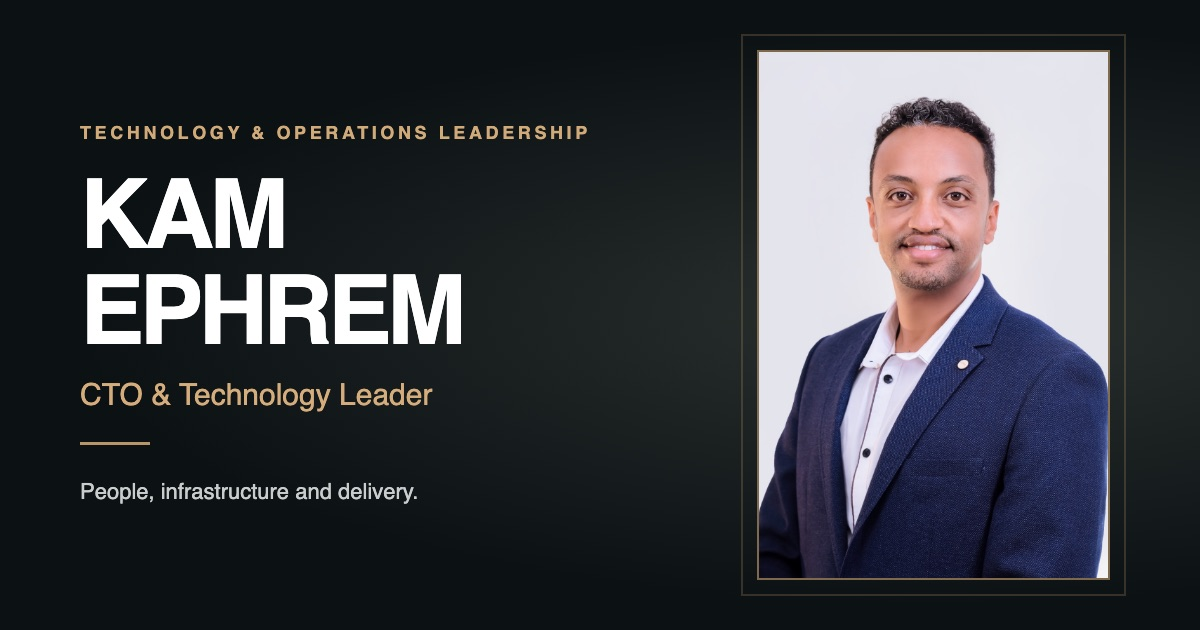
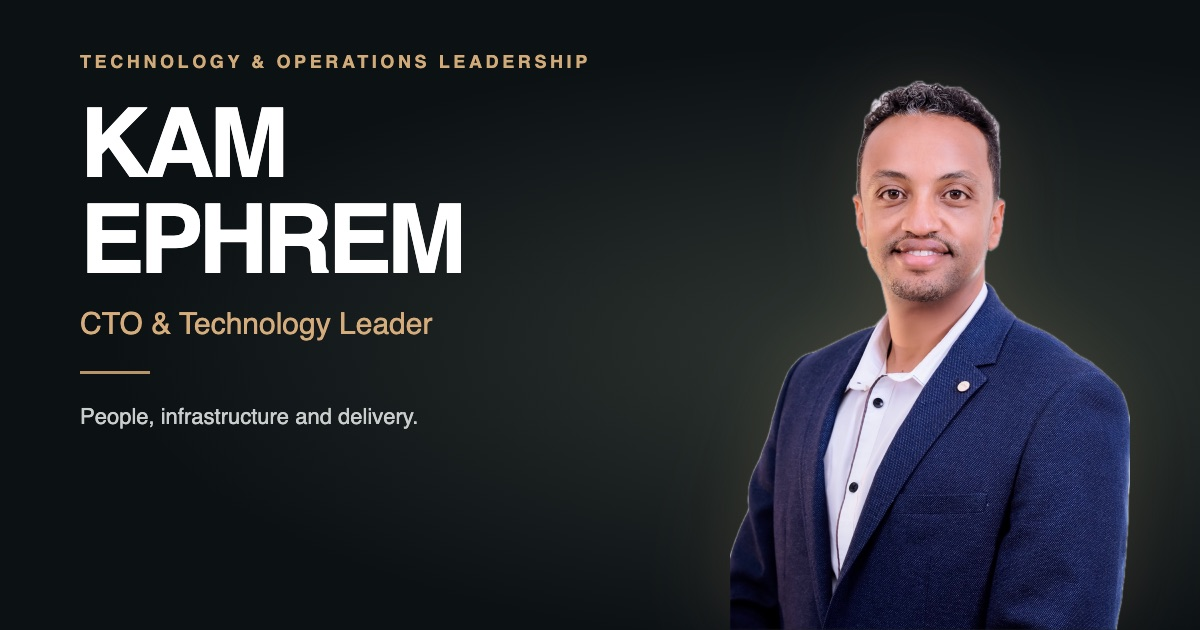
Cut out hero portrait, label credential link accurately, refresh social card

diff --git a/src/App.jsx b/src/App.jsx
@@ -12,12 +12,12 @@ export default function App() {
     <a className="skip" href="#main">Skip to content</a>
     <header className="header shell"><a className="brand" href="#top"><span className="monogram">KE</span><span>KAM EPHREM<small>TECHNOLOGY &amp; OPERATIONS</small></span></a><nav aria-label="Main navigation"><a href="#expertise">Expertise</a><a href="#work">Selected work</a><a href="#about">About</a><a href="#certification">Certification</a><a href="#contact">Contact</a></nav></header>
     <main id="main">
-      <section className="hero" id="top"><div className="shell hero-inner"><div className="hero-copy"><p className="eyebrow">TECHNOLOGY &amp; OPERATIONS LEADERSHIP</p><h1>KAM EPHREM</h1><p className="hero-role">CTO &amp; Technology Leader</p><span className="gold-rule" /><p className="hero-description">I connect people, infrastructure, and practical decisions to help move work forward. My experience spans technology leadership, cloud operations, and project delivery.</p><div className="hero-actions"><a className="button gold" href="#work">Explore my work</a><a className="button outline" href="https://www.linkedin.com/in/kamnoahephrem">Connect on LinkedIn</a></div></div><div className="hero-visual"><div className="visual-grid" aria-hidden="true" /><div className="visual-orbit orbit-one" aria-hidden="true" /><div className="visual-orbit orbit-two" aria-hidden="true" /><figure className="portrait"><img src="/kam-ephrem-1000.jpg" srcSet="/kam-ephrem-600.jpg 600w, /kam-ephrem-1000.jpg 1000w" sizes="(max-width: 850px) 70vw, 400px" width="1000" height="1500" alt="Portrait of Kam Ephrem, smiling, in glasses and a navy blazer" fetchPriority="high" /><figcaption>PEOPLE <span>/</span> SYSTEMS <span>/</span> DELIVERY</figcaption></figure></div></div></section>
+      <section className="hero" id="top"><div className="shell hero-inner"><div className="hero-copy"><p className="eyebrow">TECHNOLOGY &amp; OPERATIONS LEADERSHIP</p><h1>KAM EPHREM</h1><p className="hero-role">CTO &amp; Technology Leader</p><span className="gold-rule" /><p className="hero-description">I connect people, infrastructure, and practical decisions to help move work forward. My experience spans technology leadership, cloud operations, and project delivery.</p><div className="hero-actions"><a className="button gold" href="#work">Explore my work</a><a className="button outline" href="https://www.linkedin.com/in/kamnoahephrem">Connect on LinkedIn</a></div></div><div className="hero-visual"><div className="visual-grid" aria-hidden="true" /><div className="visual-orbit orbit-one" aria-hidden="true" /><div className="visual-orbit orbit-two" aria-hidden="true" /><figure className="portrait"><img src="/kam-ephrem-800.png" srcSet="/kam-ephrem-500.png 500w, /kam-ephrem-800.png 800w" sizes="(max-width: 850px) 80vw, 420px" width="800" height="1200" alt="Portrait of Kam Ephrem, smiling, in glasses and a navy blazer" fetchPriority="high" /></figure></div></div></section>
 
       <section className="expertise section" id="expertise"><div className="shell"><div className="section-title centered"><p className="eyebrow">HOW I WORK</p><h2>Areas of expertise</h2><span className="gold-rule" /></div><div className="expertise-grid">{expertise.map(item => <article key={item.title}><span className="expertise-icon" aria-hidden="true">{item.symbol}</span><h3>{item.title}</h3><p>{item.text}</p></article>)}</div></div></section>
 
       <section className="portfolio" id="work"><div className="shell portfolio-grid"><div className="selected"><div className="section-title"><p className="eyebrow">LEADERSHIP IN PRACTICE</p><h2>Selected work</h2><span className="gold-rule" /></div><div className="projects"><article><div className="project-art art-ella" aria-hidden="true"><span>ELLA<br />TECH</span><i /></div><p className="project-type">TECHNOLOGY LEADERSHIP</p><h3>Building delivery capability</h3><p>As CTO at Ella Tech, Kam works with the CEO on company setup and oversees delivery across web, mobile, and backend services. Azeb Baltina was delivered; Ella IT is in development.</p></article><article><div className="project-art art-cloud" aria-hidden="true"><span>30%<small>+</small></span><i>LOWER CLOUD COSTS</i></div><p className="project-type">CLOUD &amp; DEVOPS</p><h3>More efficient operations</h3><p>At L-ift BV, right-sizing, pricing changes, and automation reduced cloud costs by over 30%, deployment time by 35%, and increased release frequency by 20%.</p></article><article><div className="project-art art-code" aria-hidden="true"><span>API</span><i>DJANGO / MYSQL / JWT</i></div><p className="project-type">BACKEND ENGINEERING</p><h3>E-commerce product API</h3><p>The ALX capstone README describes product CRUD, user management, and cart features using Django, Django REST Framework, MySQL, and JWT.</p><a className="text-link" href="https://github.com/kamcode1/CapstoneProject">View repository</a></article></div></div><aside className="about" id="about"><div className="section-title"><p className="eyebrow">A CROSS-DISCIPLINARY PERSPECTIVE</p><h2>About me</h2><span className="gold-rule" /></div><p>I'm Kam Ephrem, a technology and operations leader based in Addis Ababa. My work brings together software delivery, cloud infrastructure, people, and cost control.</p><div className="about-facts"><div><span aria-hidden="true">◈</span><p><strong>Current focus</strong>CTO at Ella Tech and DevOps at L-ift BV</p></div><div><span aria-hidden="true">▤</span><p><strong>Background</strong>Technology, civil engineering, and general management</p></div><div><span aria-hidden="true">◇</span><p><strong>Education</strong>MSc in Computer Science, HiLCoE; BSc in Civil Engineering, Addis Ababa University</p></div><div><span aria-hidden="true">✳</span><p><strong>Credentials</strong>FMVA (Corporate Finance Institute, 2022) and AWS Solutions Architect – Associate, active until February 2027</p></div></div><a className="text-link" href="https://github.com/kamcode1">Explore GitHub</a></aside></div></section>
-      <section className="certification section" id="certification"><div className="shell"><div className="section-title centered"><p className="eyebrow">PROFESSIONAL CREDENTIAL</p><h2>Certification</h2><span className="gold-rule" /></div><article className="cert-card"><div className="cert-badge" aria-hidden="true"><span>FMVA</span><small>CFI</small></div><div className="cert-body"><p className="project-type">FINANCE &amp; ANALYSIS</p><h3>Financial Modeling &amp; Valuation Analyst (FMVA)</h3><p className="cert-issuer">Corporate Finance Institute · Awarded July 2022</p><p>Certification in financial modelling and valuation, applied to budgeting, forecasting, and cost control alongside technology and operations work.</p><ul className="cert-skills" aria-label="Skills covered"><li>Budgeting &amp; forecasting</li><li>3-statement modelling</li><li>Excel dashboards</li><li>PowerPoint reporting</li></ul><a className="text-link" href="https://credentials.corporatefinanceinstitute.com/9a7a8fb7-1c8f-4276-b402-6459090e12f7" rel="noopener noreferrer" target="_blank">Verify credential<span className="sr-only"> (opens in a new tab)</span></a></div></article></div></section>
+      <section className="certification section" id="certification"><div className="shell"><div className="section-title centered"><p className="eyebrow">PROFESSIONAL CREDENTIAL</p><h2>Certification</h2><span className="gold-rule" /></div><article className="cert-card"><div className="cert-badge" aria-hidden="true"><span>FMVA</span><small>CFI</small></div><div className="cert-body"><p className="project-type">FINANCE &amp; ANALYSIS</p><h3>Financial Modeling &amp; Valuation Analyst (FMVA)</h3><p className="cert-issuer">Corporate Finance Institute · Awarded July 2022</p><p>Certification in financial modelling and valuation, applied to budgeting, forecasting, and cost control alongside technology and operations work.</p><ul className="cert-skills" aria-label="Skills covered"><li>Budgeting &amp; forecasting</li><li>3-statement modelling</li><li>Excel dashboards</li><li>PowerPoint reporting</li></ul><a className="text-link" href="https://credentials.corporatefinanceinstitute.com/9a7a8fb7-1c8f-4276-b402-6459090e12f7" rel="noopener noreferrer" target="_blank">View CFI course certificate: Business Valuation Modeling Part II<span className="sr-only"> (opens in a new tab)</span></a></div></article></div></section>
       <section className="approach section" id="approach"><div className="shell approach-inner"><div><p className="eyebrow">THE WORK BEHIND THE WORK</p><h2>Connecting the decisions<br />to delivery.</h2><span className="gold-rule" /><p>Explore the areas reflected in Kam's experience.</p></div><div className="map-list"><details open><summary>People &amp; ownership</summary><p>Recruitment, team coordination, and direct work with leadership connect the work to the people responsible for it.</p></details><details><summary>Platforms &amp; delivery</summary><p>Cloud infrastructure, monitoring, and release automation support the applications and teams that depend on them.</p></details><details><summary>Resources &amp; decisions</summary><p>Reviewing usage, subscriptions, and costs keeps operational decisions connected to the resources they consume.</p></details></div></div></section>
     </main>
     <footer className="footer" id="contact"><div className="shell footer-inner"><div><p className="eyebrow">LET'S CONNECT</p><h2>Have a challenge in mind?</h2><p>For technology leadership, operational challenges, or a conversation about the work.</p></div><div className="footer-links"><a href="https://www.linkedin.com/in/kamnoahephrem"><span>◈</span><strong>LinkedIn</strong><small>Start a conversation</small></a><a href="https://github.com/kamcode1"><span>⌘</span><strong>GitHub</strong><small>Explore the code</small></a><a href="#top"><span>↑</span><strong>Back to top</strong><small>Kam Ephrem</small></a></div></div></footer>

diff --git a/styles.css b/styles.css
@@ -3,6 +3,4 @@
 @media(max-width:850px){.header{height:auto;min-height:90px;flex-wrap:wrap;gap:1rem;padding:1rem 0}.header nav{width:100%;overflow-x:auto;gap:1.25rem}.header nav a{white-space:nowrap}.hero-inner{grid-template-columns:1fr;padding-top:140px;gap:0}.hero-copy{padding:3rem 0 0}.hero-visual{min-height:330px}.section{padding:4.5rem 0}.expertise-grid{grid-template-columns:1fr 1fr;gap:2rem}.expertise-grid article:nth-child(2){border:0}.portfolio-grid{grid-template-columns:1fr}.selected{padding:4.5rem 0}.about{padding:4rem 0}.about:before{content:'';position:absolute;right:100%;top:0;bottom:0;width:10vw;background:#e4e3e1}.approach-inner{grid-template-columns:1fr;gap:2rem}.footer-inner{align-items:start;flex-direction:column;gap:2rem}}
 @media(max-width:550px){.shell{width:calc(100% - 2.5rem)}.header{left:1.25rem;right:1.25rem}.header nav{font-size:.75rem}h1{font-size:3.2rem}.hero-inner{padding-top:130px}.hero-visual{min-height:280px}.visual-caption{bottom:10%}.expertise-grid{gap:2rem 0}.expertise-grid article{padding:0 1rem}.expertise-grid article:nth-child(odd){border-right:1px solid #dedcd8}.projects{grid-template-columns:1fr;gap:2.5rem}.project-art{height:210px}.footer-links{flex-wrap:wrap;gap:1.5rem}.about:after{width:10vw}}
 @media(prefers-reduced-motion:reduce){html{scroll-behavior:auto}.button{transition:none}}
-.portrait{position:relative;z-index:1;margin:2rem 0 4rem;width:min(64%,330px)}.portrait img{display:block;width:100%;height:auto;aspect-ratio:2/3;object-fit:cover;object-position:center top;border:1px solid #b8956988;outline:1px solid #b8956933;outline-offset:12px;box-shadow:0 30px 70px #0009}.portrait figcaption{position:absolute;left:0;right:0;bottom:-2.2rem;text-align:center;font-size:.7rem;letter-spacing:.17em;color:#c4c5bc}.portrait figcaption span{color:#b89569;padding:0 .5rem}@media(max-width:850px){.portrait{width:min(70%,320px);margin:1.5rem 0 4rem}}
-.certification{background:#faf9f7;border-top:1px solid #e6e3de}.cert-card{display:grid;grid-template-columns:auto 1fr;gap:3rem;align-items:center;max-width:900px;margin:0 auto;padding:2.5rem 3rem;background:#fff;border:1px solid #e0dcd5;border-left:3px solid var(--gold)}.cert-badge{width:150px;height:150px;border-radius:50%;background:#0c1114;color:#e0c398;display:flex;flex-direction:column;align-items:center;justify-content:center;border:1px solid #b89569;outline:1px solid #b8956955;outline-offset:6px}.cert-badge span{font:700 1.9rem Manrope,sans-serif;letter-spacing:.04em}.cert-badge small{font-size:.6rem;letter-spacing:.2em;color:#aeb2b1;margin-top:.2rem}.cert-body h3{font-size:1.35rem;margin-bottom:.4rem}.cert-issuer{font-weight:700;color:#222!important;margin-bottom:.9rem!important}.cert-body>p:not(.project-type):not(.cert-issuer){font-size:.92rem;color:var(--muted);margin-bottom:1rem}.cert-skills{list-style:none;display:flex;flex-wrap:wrap;gap:.5rem;padding:0;margin:0}.cert-skills li{font-size:.75rem;padding:.35rem .75rem;background:#f1ede6;color:#6b5435;border:1px solid #e2d9c9}@media(max-width:700px){.cert-card{grid-template-columns:1fr;gap:1.75rem;padding:2rem 1.5rem;justify-items:start}.cert-badge{width:120px;height:120px}.cert-badge span{font-size:1.5rem}}
-.sr-only{position:absolute;width:1px;height:1px;overflow:hidden;clip:rect(0 0 0 0);white-space:nowrap}
+.hero-inner{align-items:stretch}.hero-copy{align-self:center}.hero-visual{align-self:stretch;place-items:end center;min-height:520px}.portrait{position:relative;z-index:1;margin:0;width:min(92%,420px);line-height:0}.portrait img{display:block;width:100%;height:auto;filter:drop-shadow(0 0 40px #b8956926)}@media(max-width:850px){.hero-inner{align-items:start}.hero-visual{min-height:0;margin-top:2rem}.portrait{width:min(80%,340px)}}
